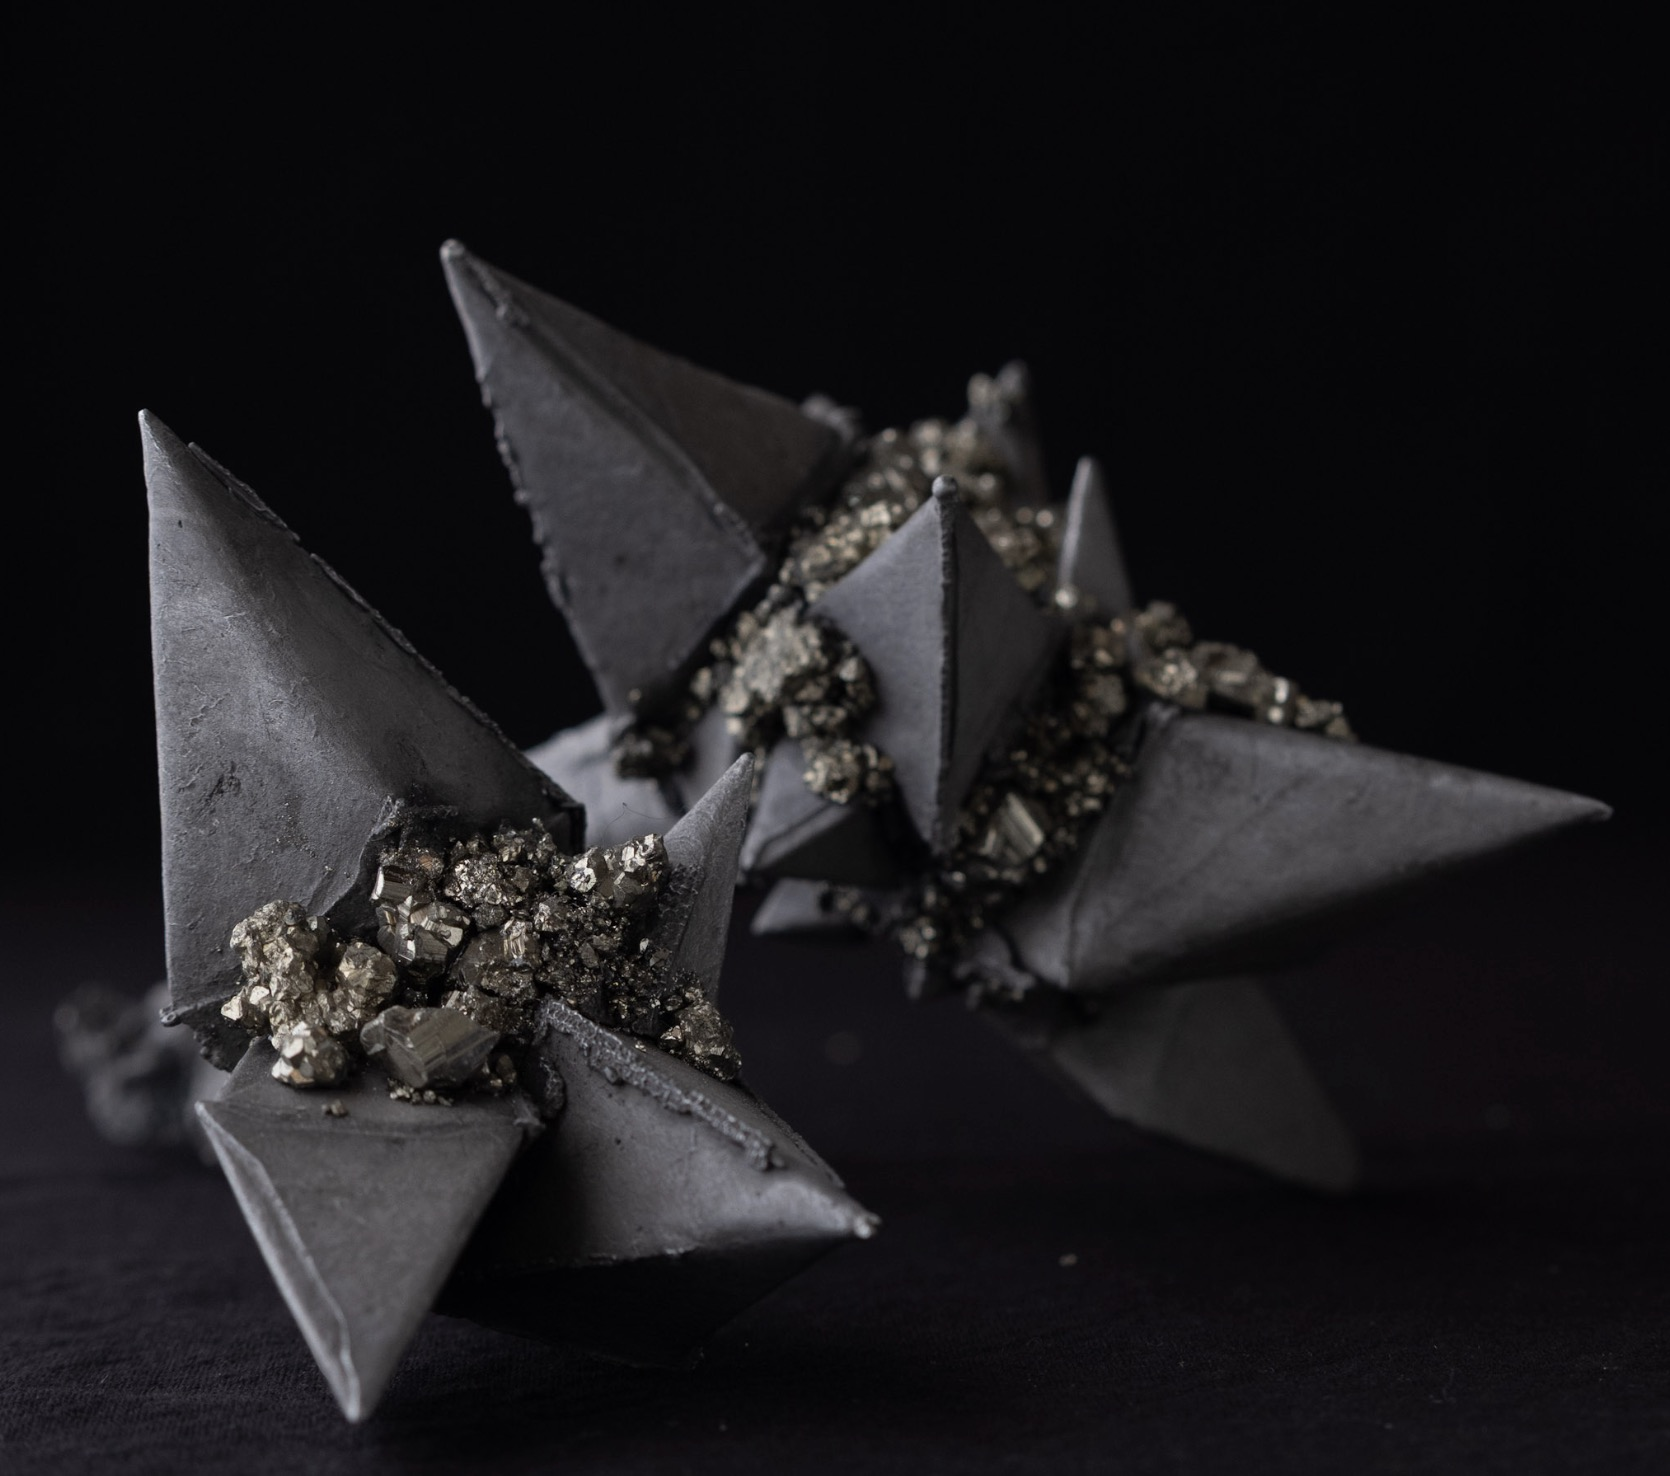
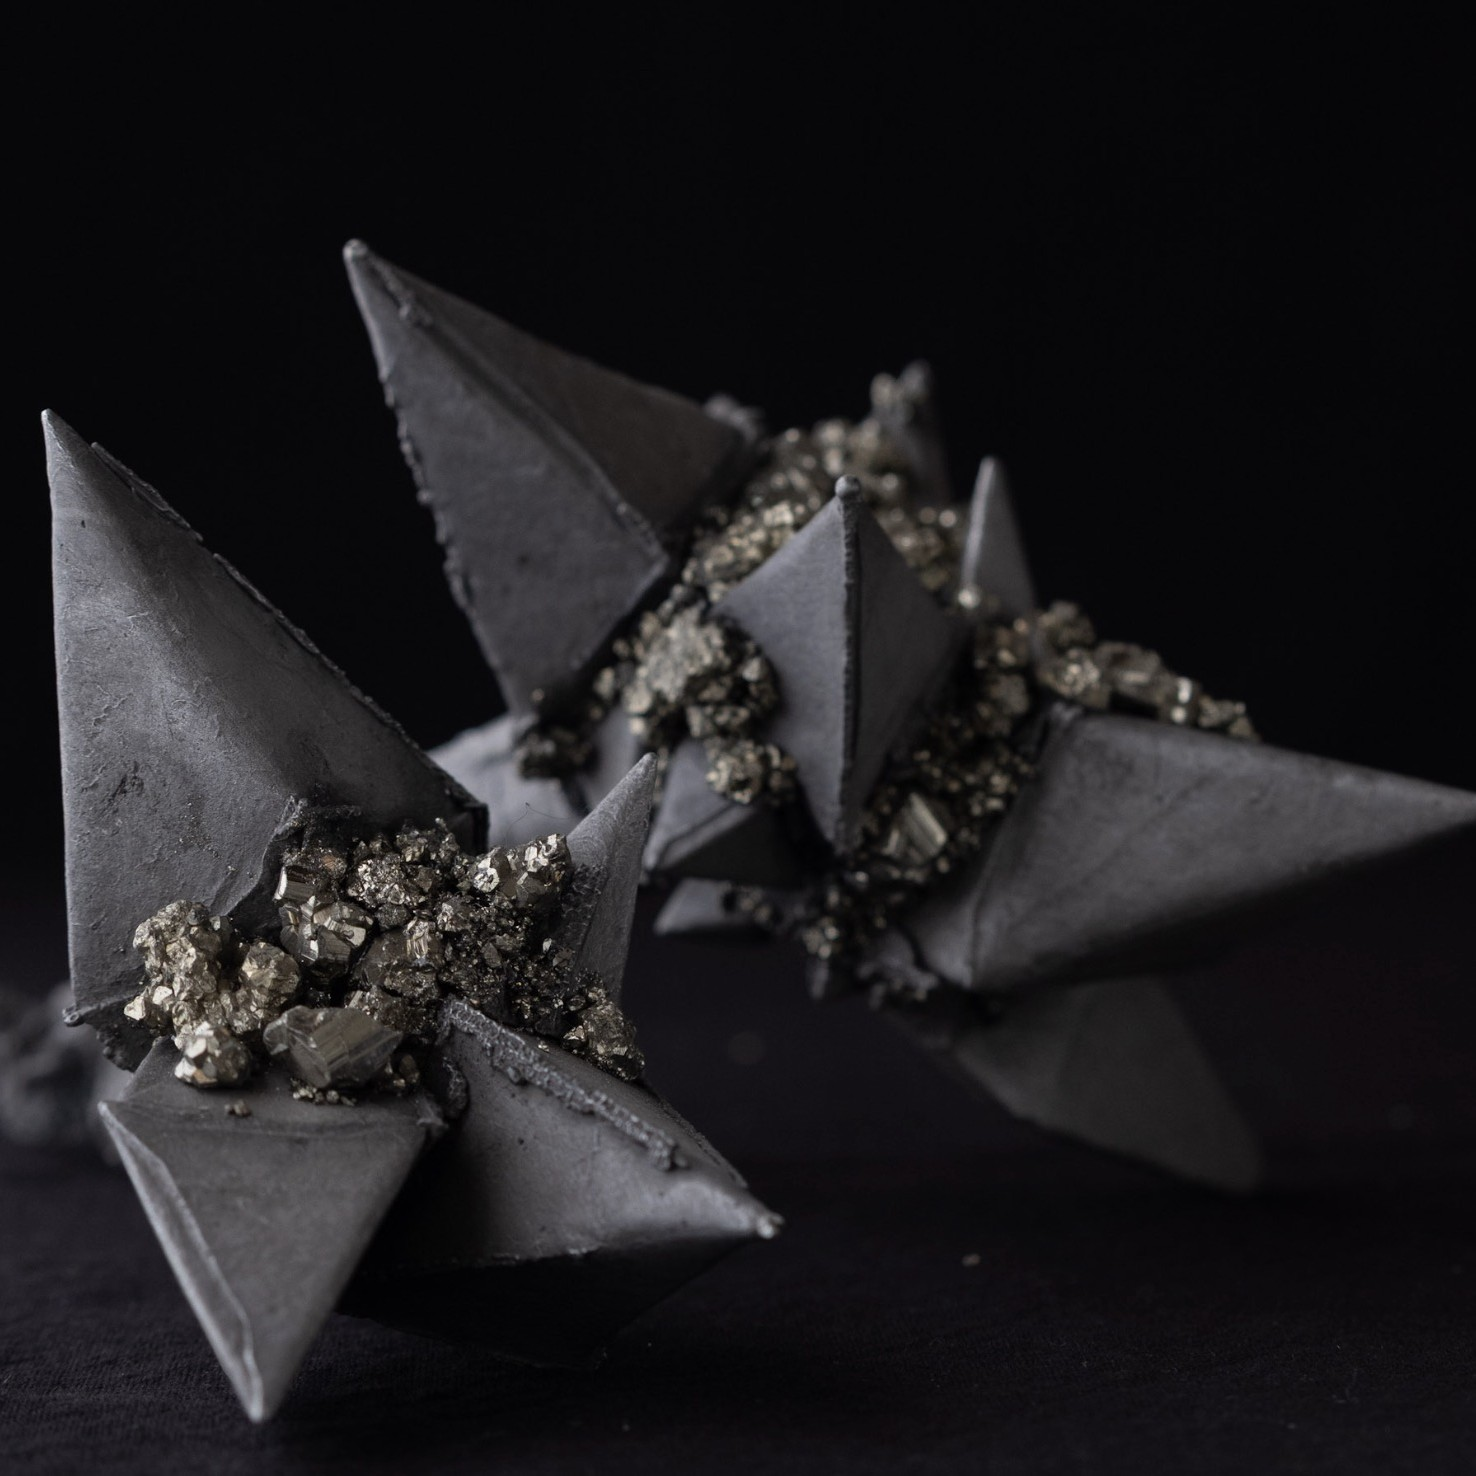
Rename Mesa->Cirrus Table, Dolmen->Dolmen Table; reorder (mirrors+tables up, Selected Works down); re-crop Skygem + Dyad in Glass to centered squares

diff --git a/index.html b/index.html
@@ -212,56 +212,6 @@
   </div>
 </section>
 
-<section class="works" id="works">
-  <div class="wrap">
-    <span class="cap">Selected works</span>
-    <div class="row">
-      <article class="work">
-        <div class="frame"><img src="images/skygem-3.jpg" alt="Skygem" style="width:100%;height:100%;object-fit:cover" /></div>
-        <h3>Skygem</h3>
-        <p class="meta">Blackened steel with pyrite. Edition.</p>
-      </article>
-      <article class="work">
-        <div class="frame"><img src="images/pyramid-pair-1.jpg" alt="Dyad in Glass" style="width:100%;height:100%;object-fit:cover" /></div>
-        <h3>Dyad in Glass</h3>
-        <p class="meta">Cast glass with stone. Edition.</p>
-      </article>
-      <article class="work">
-        <div class="frame"><img src="images/encrusted-closed-cuff-1.jpg" alt="Ore I" style="width:100%;height:100%;object-fit:cover" /></div>
-        <h3>Ore I</h3>
-        <p class="meta">Closed cuff. Patinated metal encrusted with pyrite. Edition.</p>
-      </article>
-      <article class="work">
-        <div class="frame"><img src="images/encrusted-open-cuff-1.jpg" alt="Ore II" style="width:100%;height:100%;object-fit:cover" /></div>
-        <h3>Ore II</h3>
-        <p class="meta">Open cuff. Patinated metal encrusted with pyrite. Edition.</p>
-      </article>
-    </div>
-    <p style="margin-top:40px;max-width:52ch;color:#6a6258;font-size:15px">From the Sky and Stone collection. More works added as the catalogue grows.</p>
-  </div>
-</section>
-
-<section class="feature" id="furniture">
-  <div class="wrap">
-    <span class="cap">Furniture — Altar Tables</span>
-
-    <div class="piece" style="margin-top:28px">
-      <div class="grid2">
-        <div class="frame"><img src="images/altar-table-1.jpg" alt="Mesa altar table, selenite and bronze" /></div>
-        <div class="frame"><img src="images/altar-table-2.jpg" alt="Mesa altar table, selenite and bronze" /></div>
-      </div>
-      <h3>Mesa</h3>
-      <p class="meta">Altar table. Selenite and bronze. One of a kind.</p>
-    </div>
-
-    <div class="piece">
-      <div class="wide"><img src="images/altar-dolmen-1.jpg" alt="Dolmen altar table, selenite and bronze" /></div>
-      <h3>Dolmen</h3>
-      <p class="meta">Altar table, second design. Selenite and bronze. One of a kind.</p>
-    </div>
-  </div>
-</section>
-
 <section class="mirror-band" id="mirrors">
   <div class="mirror-band-bg"></div>
   <div class="wrap">
@@ -305,6 +255,56 @@
         <p class="meta">Floor mirror on calcite. Edition.</p>
       </article>
     </div>
+  </div>
+</section>
+
+<section class="feature" id="furniture">
+  <div class="wrap">
+    <span class="cap">Furniture — Altar Tables</span>
+
+    <div class="piece" style="margin-top:28px">
+      <div class="grid2">
+        <div class="frame"><img src="images/altar-table-1.jpg" alt="Cirrus Table, selenite and bronze" /></div>
+        <div class="frame"><img src="images/altar-table-2.jpg" alt="Cirrus Table, selenite and bronze" /></div>
+      </div>
+      <h3>Cirrus Table</h3>
+      <p class="meta">Altar table. Selenite and bronze. One of a kind.</p>
+    </div>
+
+    <div class="piece">
+      <div class="wide"><img src="images/altar-dolmen-1.jpg" alt="Dolmen Table, selenite and bronze" /></div>
+      <h3>Dolmen Table</h3>
+      <p class="meta">Altar table, second design. Selenite and bronze. One of a kind.</p>
+    </div>
+  </div>
+</section>
+
+<section class="works" id="works">
+  <div class="wrap">
+    <span class="cap">Selected works</span>
+    <div class="row">
+      <article class="work">
+        <div class="frame"><img src="images/skygem-3.jpg" alt="Skygem" style="width:100%;height:100%;object-fit:cover" /></div>
+        <h3>Skygem</h3>
+        <p class="meta">Blackened steel with pyrite. Edition.</p>
+      </article>
+      <article class="work">
+        <div class="frame"><img src="images/pyramid-pair-1.jpg" alt="Dyad in Glass" style="width:100%;height:100%;object-fit:cover" /></div>
+        <h3>Dyad in Glass</h3>
+        <p class="meta">Cast glass with stone. Edition.</p>
+      </article>
+      <article class="work">
+        <div class="frame"><img src="images/encrusted-closed-cuff-1.jpg" alt="Ore I" style="width:100%;height:100%;object-fit:cover" /></div>
+        <h3>Ore I</h3>
+        <p class="meta">Closed cuff. Patinated metal encrusted with pyrite. Edition.</p>
+      </article>
+      <article class="work">
+        <div class="frame"><img src="images/encrusted-open-cuff-1.jpg" alt="Ore II" style="width:100%;height:100%;object-fit:cover" /></div>
+        <h3>Ore II</h3>
+        <p class="meta">Open cuff. Patinated metal encrusted with pyrite. Edition.</p>
+      </article>
+    </div>
+    <p style="margin-top:40px;max-width:52ch;color:#6a6258;font-size:15px">From the Sky and Stone collection. More works added as the catalogue grows.</p>
   </div>
 </section>
 